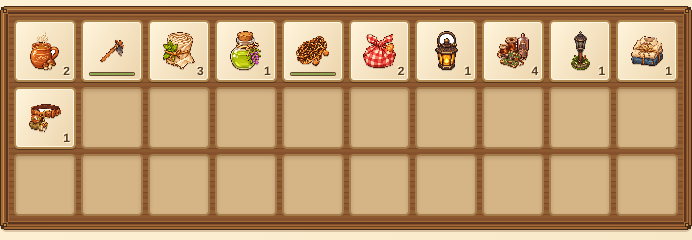
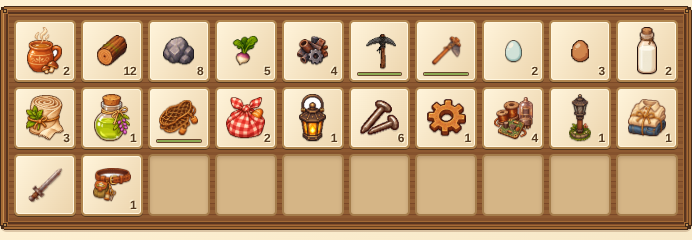
Ícones mais nítidos e maiores nos slots; ovo pequeno; pedra com ícone próprio
As artes têm de 96 a 1000 px e eram reduzidas com "pixelated", que serrilha o desenho:
agora a redução é suave e o ícone ocupa mais o slot. O ovo e o ovo de pato ficam pequenos,
e a pedra usa o ícone do conjunto (as pedrinhas do chão ficavam minúsculas).

Claude-Session: https://claude.ai/code/session_01VpVxgMQDGaCXuwQcLEJaM9

diff --git a/src/cozy-hud.css b/src/cozy-hud.css
@@ -243,3 +243,15 @@
 .tool-durability{position:absolute;left:6px;right:6px;bottom:4px;height:4px;overflow:hidden;border:1px solid #69462e;border-radius:2px;background:#4e3828;pointer-events:none}
 .tool-durability>span{display:block;height:100%;background:#8caa53;transition:width .15s}
 #ui>.modal-root.active{z-index:12}
+
+/* Qualidade dos ícones (preview.41): as artes têm de 96 a 1000 px e aparecem com uns 40 px.
+ * "pixelated" pula pixels ao reduzir e serrilha o desenho; a redução suave preserva os
+ * detalhes. O ícone também ocupa mais o slot. */
+#ui .asset-icon,#ui .bag-slot .icon,#ui .hud .tool .icon{image-rendering:auto;image-rendering:smooth}
+#ui .bag-slot .icon{width:84%;height:84%;max-width:54px;max-height:54px;filter:drop-shadow(0 1px 0 #2d271d40)}
+#ui .inventory-quickbar .bag-slot .icon{width:78%;height:78%}
+#ui .hud .tool .icon{width:34px;height:34px}
+@media(max-width:600px){#ui .hud .tool .icon{width:27px;height:27px}#ui .backpack-panel .bag-slot .icon{max-width:42px;max-height:42px}}
+/* Ovo: pequeno no slot, do tamanho de um ovo de verdade perto dos outros itens. */
+#ui .bag-slot .icon[src$="products/egg.png"],#ui .bag-slot .icon[src$="kitchen/duck-egg.png"]{width:40%;height:40%}
+#ui .hud .tool .icon[src$="products/egg.png"],#ui .hud .tool .icon[src$="kitchen/duck-egg.png"]{width:18px;height:18px}

diff --git a/src/visual-assets.ts b/src/visual-assets.ts
@@ -72,7 +72,8 @@ export function itemIconUrl(id: string, tier=0): string | undefined {
   if((ART_TOOL_IDS as readonly string[]).includes(id)&&(tier>0||id==='sickle'||id==='shovel'))return tierToolIcon(id as EconomicTool,tier);
   const fallback=Object.hasOwn(ITEMS,id)?ITEMS[id as ItemId].iconFallback:undefined;
   if(fallback)return itemIconUrl(fallback);
-  if (id === 'stone') return 'assets/visual/nature/small-stones.png';
+  // Ícone de pedra do conjunto de ícones (as pedrinhas do chão ficavam minúsculas no slot).
+  if (id === 'stone') return `${BASE}icons/stone.png`;
   if (id === 'branch') return 'assets/visual/nature/fallen-branches.png';
   if (id === 'hatchet' || id === 'pickaxe' || id === 'hoe') return TOOL_ICON_URLS[id];
   if (id === 'water-empty') return WATER_EMPTY_ICON;
